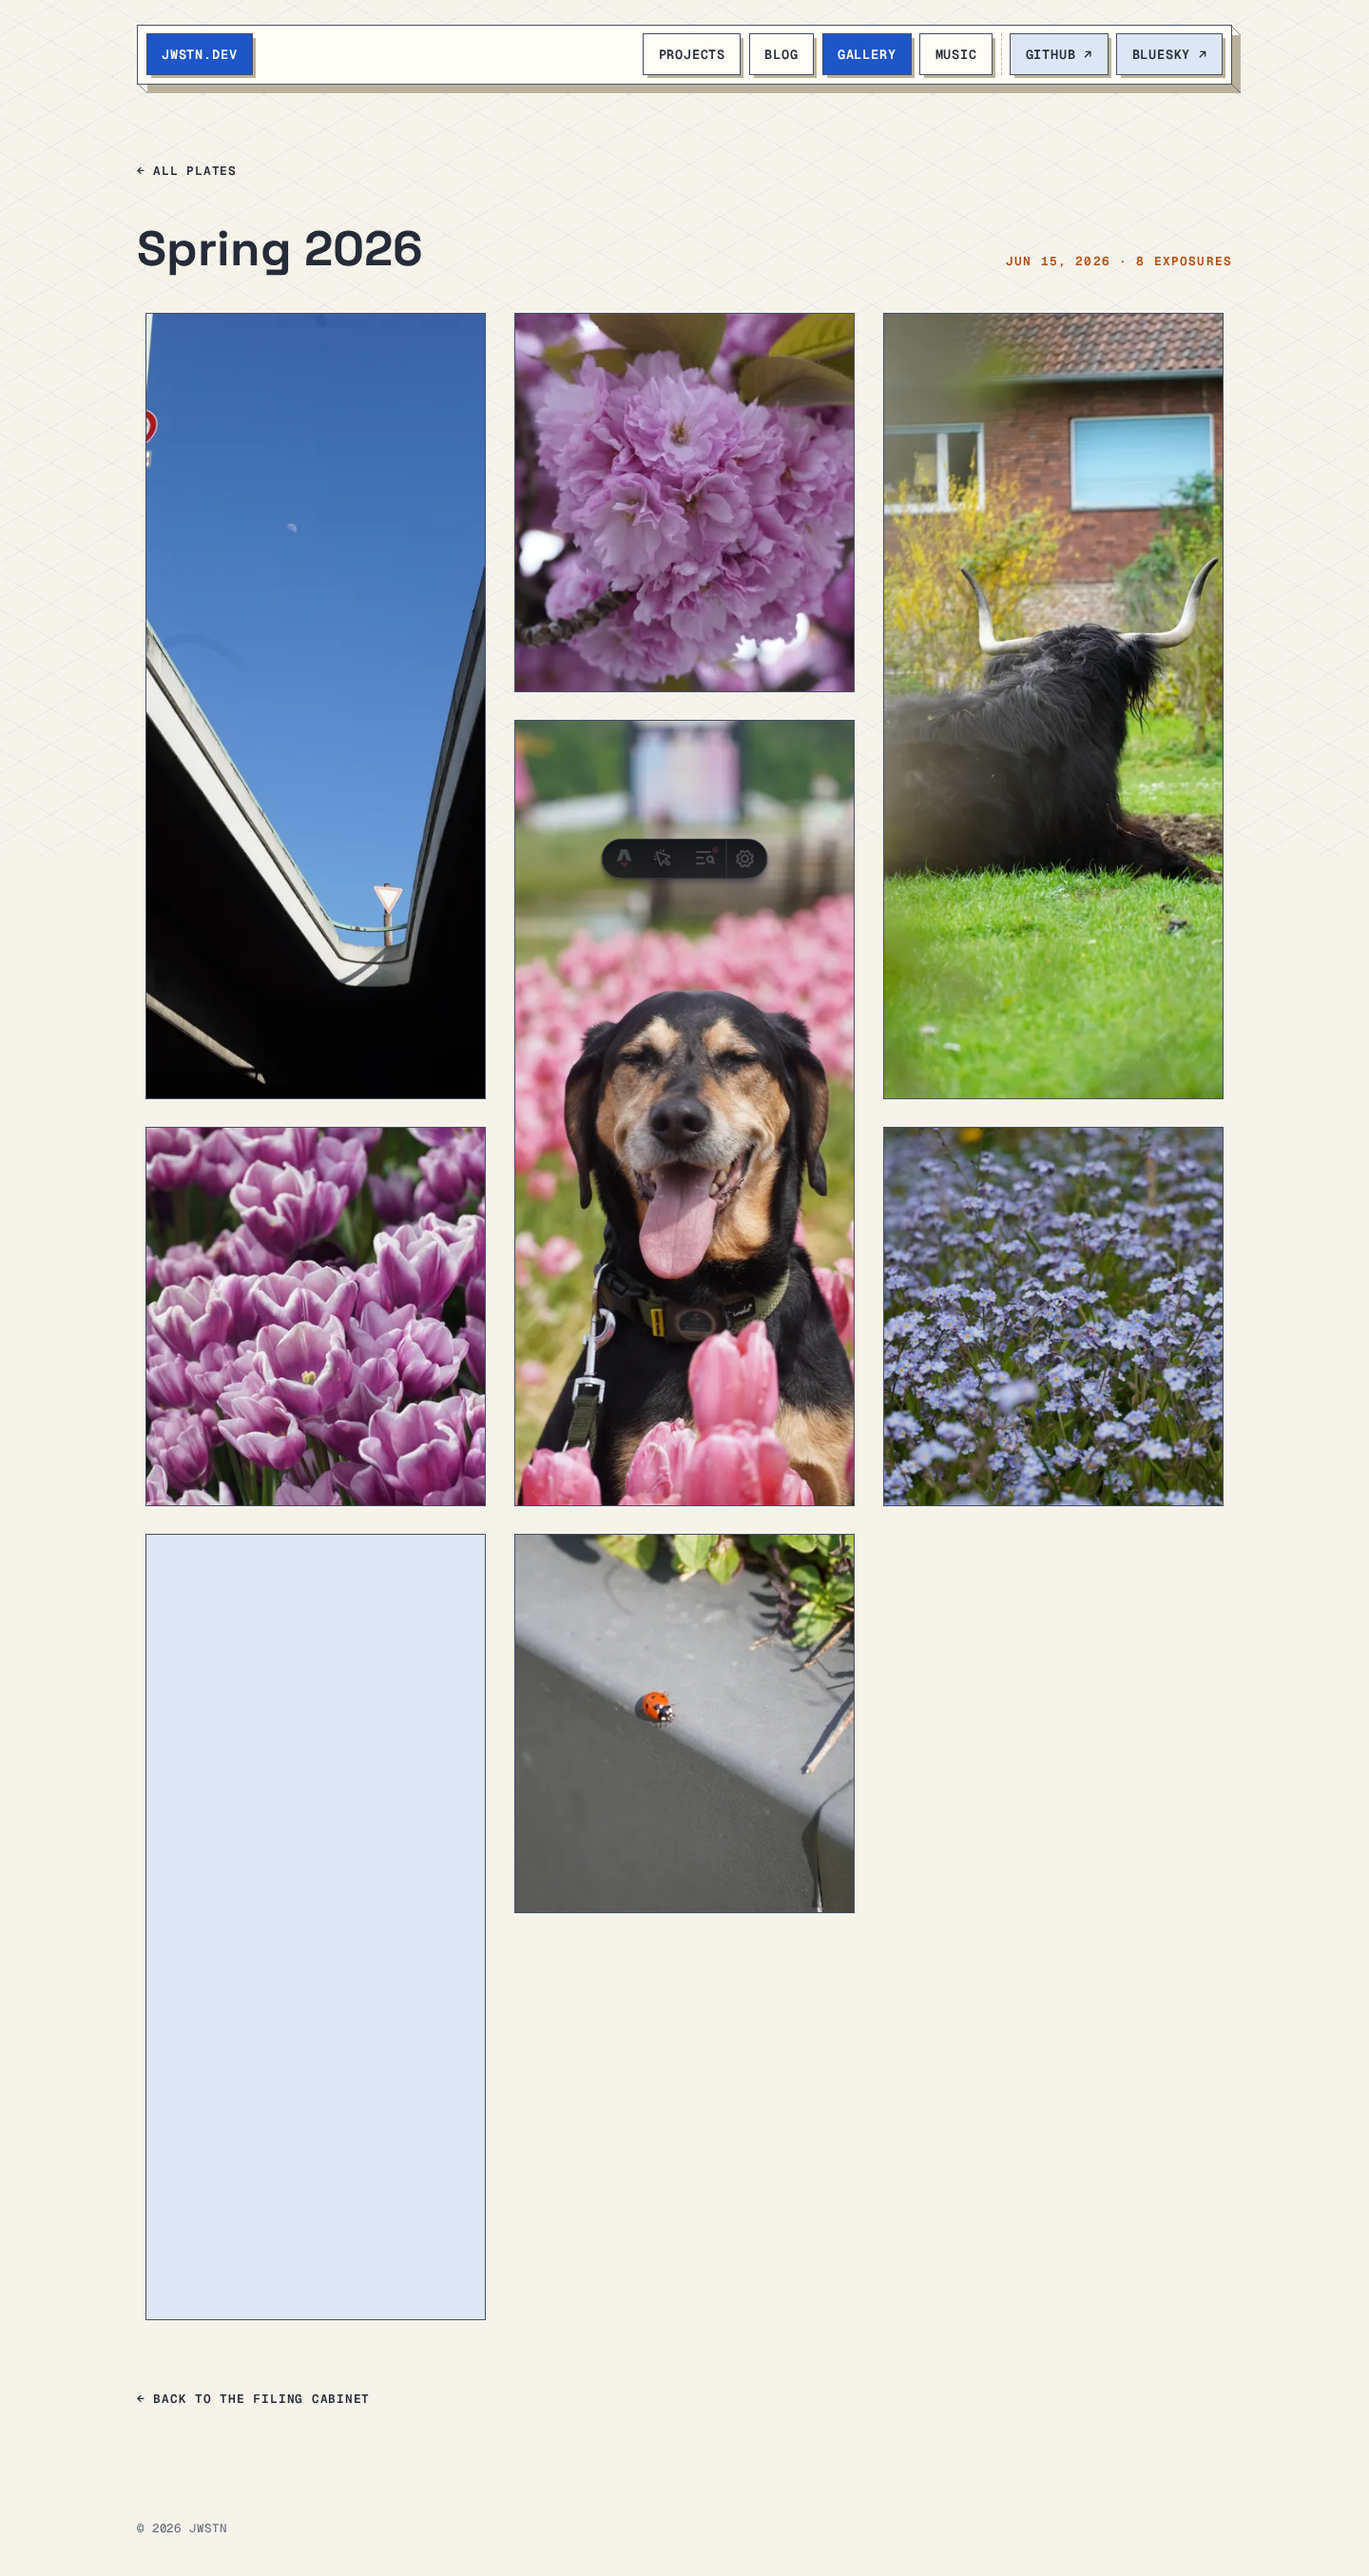
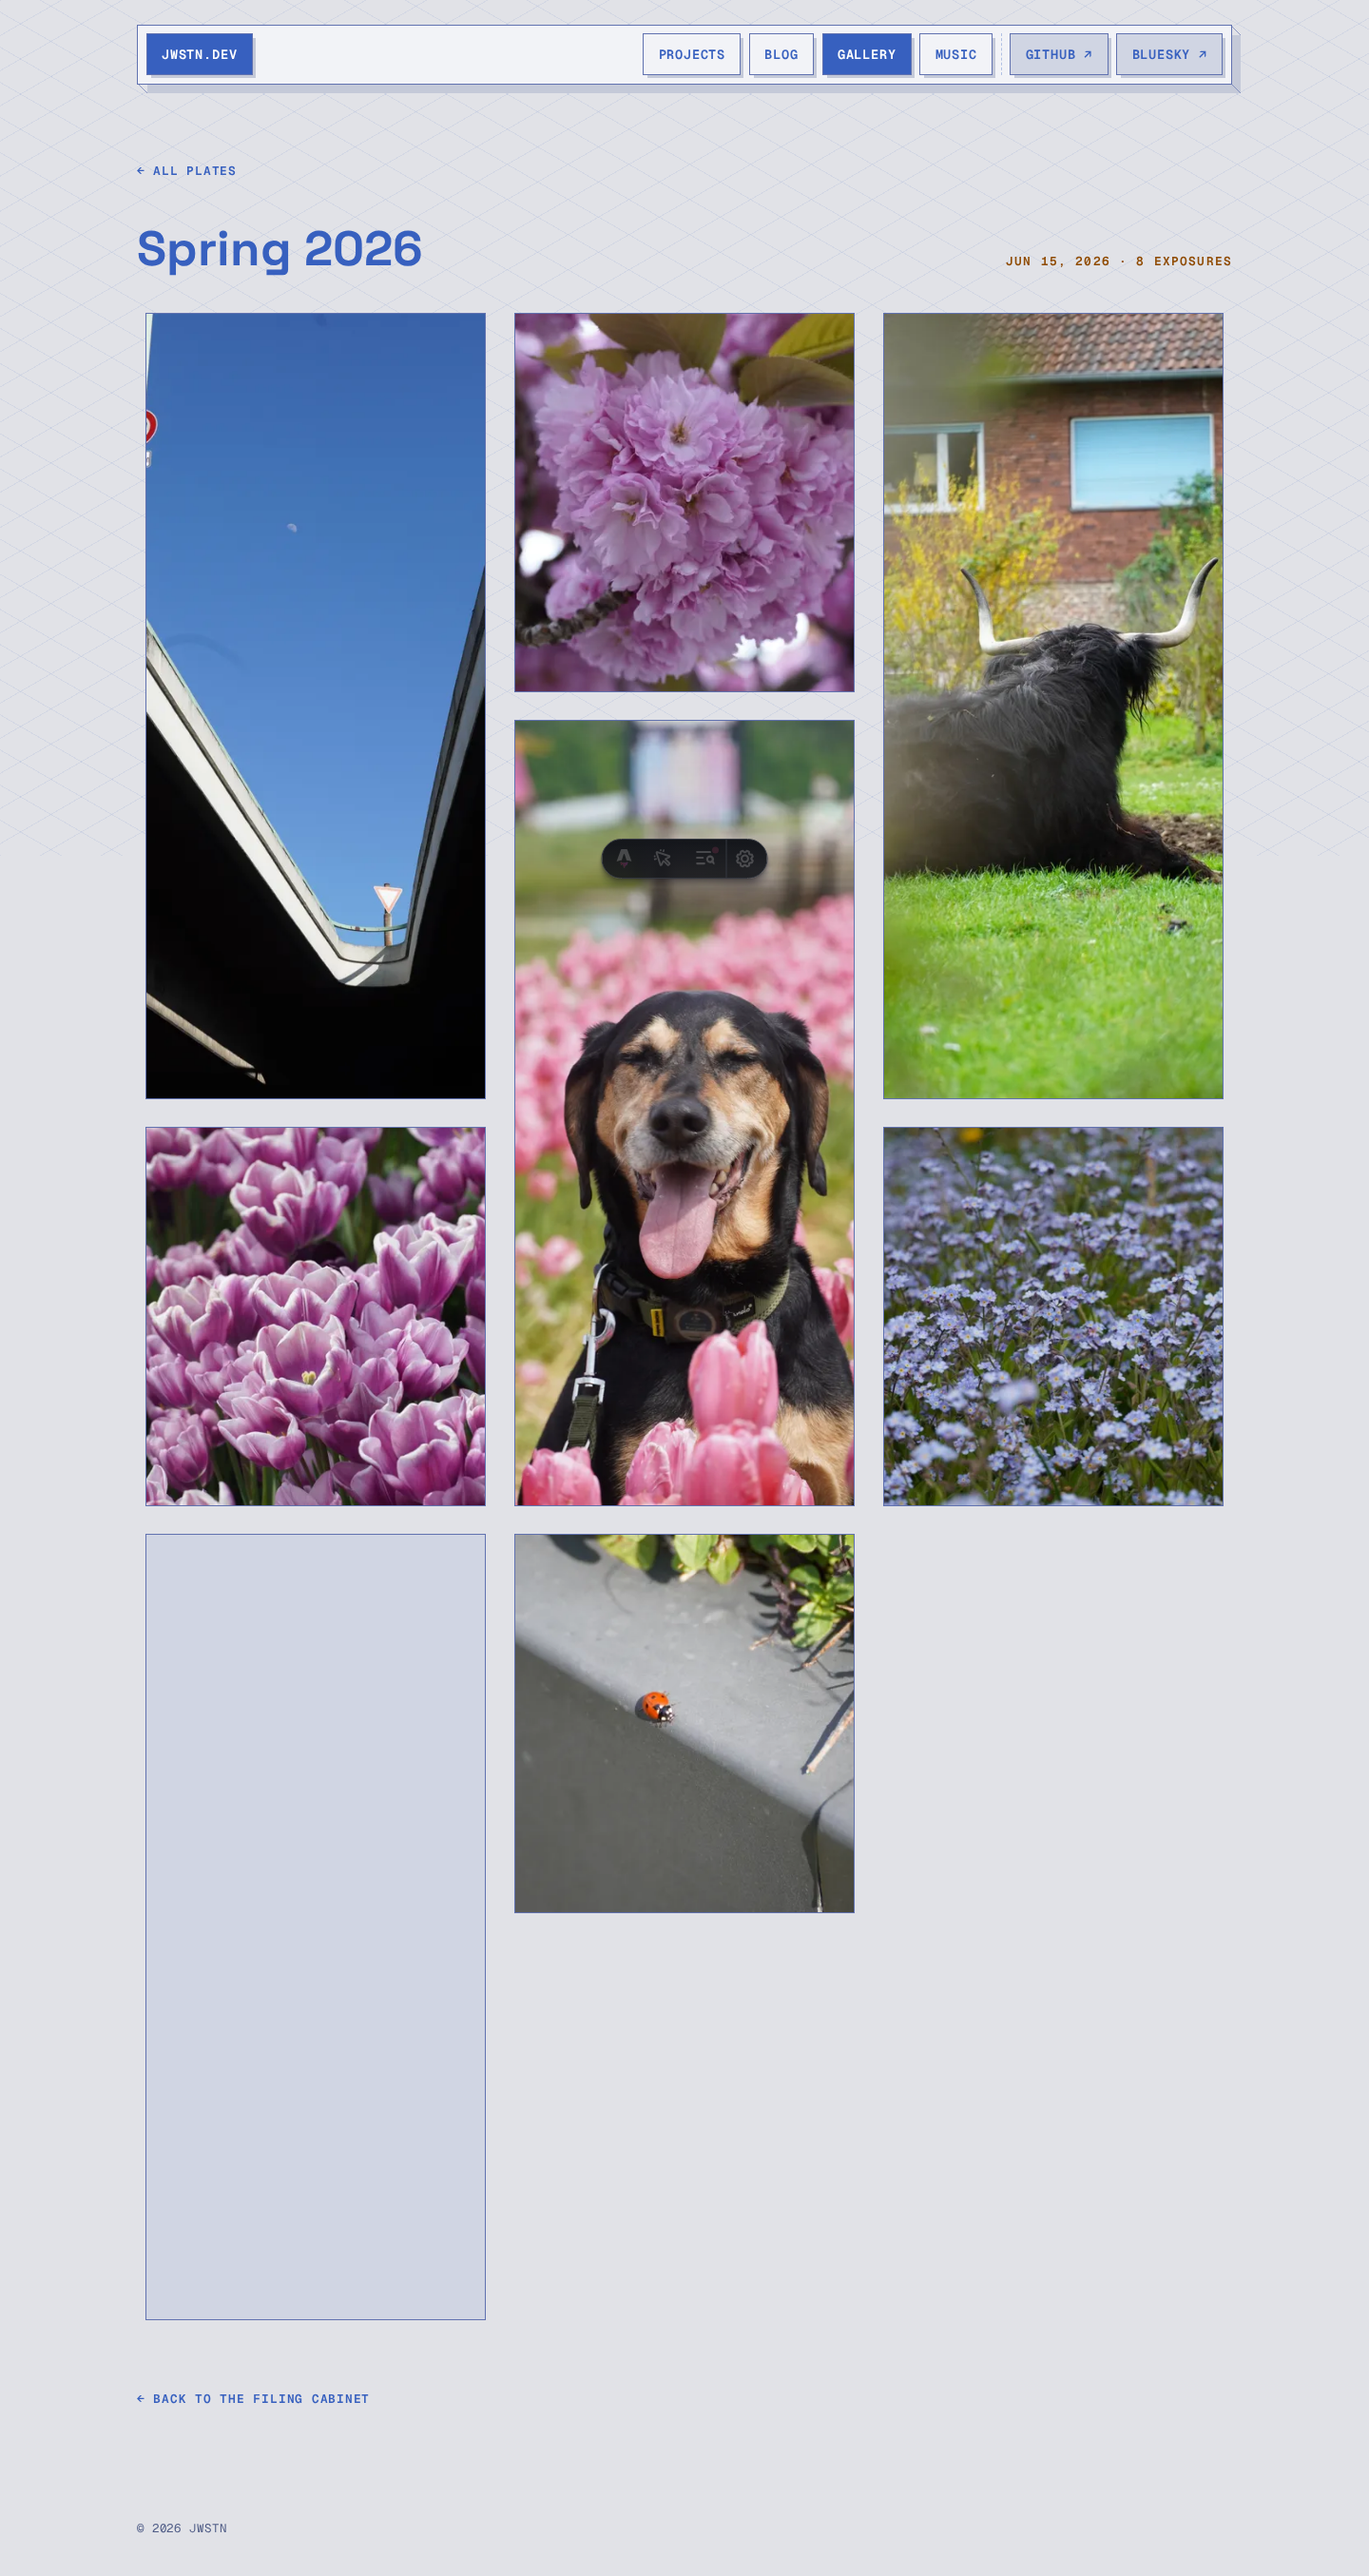
Theme: Tokyo Night palette (Night for dark, Day for light) (#42)

Changed region(s): [[0.0938, 0.0, 0.9062, 0.062], [0.0938, 0.093, 0.3125, 0.124]]

diff --git a/src/styles/theme.css b/src/styles/theme.css
@@ -1,91 +1,74 @@
 /*
- * isometric — 2.5D drafting table.
- * Everything is scoped under html.theme-isometric (plus .dark) so nothing
- * leaks into the other themes shipped in the same bundle.
- * Fonts: Space Grotesk (display + body), Geist Mono (measurements, labels,
- * axis annotations). Body copy stays flat and readable — skew only ever
- * lands on decorative faces, never on text.
+ * jwstn.dev — isometric layout, Tokyo Night palette.
+ * Dark mode: Tokyo Night · Light mode: Tokyo Night Day (AA-adjusted inks).
+ * Fonts: Space Grotesk (display + body), Geist Mono (measurements, labels).
  */
 
 @import "@fontsource-variable/space-grotesk";
 @import "@fontsource-variable/geist-mono";
 
 /* ------------------------------------------------------------------ */
-/* Design tokens — light: drafting-paper workshop                      */
+/* Design tokens — Tokyo Night Day                                     */
 /* ------------------------------------------------------------------ */
 
 html.theme-isometric {
   color-scheme: light;
 
-  --background: #f6f3ea;
-  --foreground: #252b38;
-  --card: #fffdf6;
-  --card-foreground: #252b38;
-  --primary: #1e56c8;
+  --background: #e1e2e7;
+  --foreground: #3760bf;
+  --card: #f2f3f7;
+  --card-foreground: #3760bf;
+  --primary: #3760bf;
   --primary-foreground: #ffffff;
-  --secondary: #dde6f7;
-  --secondary-foreground: #252b38;
-  --muted: #eae5d7;
-  --muted-foreground: #5c6272;
-  --accent: #b04a0e;
+  --secondary: #d0d5e3;
+  --secondary-foreground: #3760bf;
+  --muted: #d8dbe5;
+  --muted-foreground: #4f5c86;
+  --accent: #8f4a00;
   --accent-foreground: #ffffff;
-  --border: #454e63;
-  --ring: #1e56c8;
+  --border: #9aa3c0;
+  --ring: #3760bf;
   --radius: 0rem;
 
   --font-display: "Space Grotesk Variable", "Space Grotesk", system-ui, sans-serif;
   --font-body: "Space Grotesk Variable", "Space Grotesk", system-ui, sans-serif;
   --font-mono: "Geist Mono Variable", "Geist Mono", ui-monospace, monospace;
 
-  /* drafting-table customs */
-  --iso-edge: #454e63;
-  --iso-side: #b9b19b;
-  --iso-face-top: #e0e9f9;
-  --grid-line: rgb(31 86 200 / 0.07);
-
-  /* floating cube faces (decorative) */
-  --cube-a-front: #2f6ae0;
-  --cube-a-right: #1b47a8;
-  --cube-a-top: #9dbcf2;
-  --cube-b-front: #c25510;
-  --cube-b-right: #8a3a0a;
-  --cube-b-top: #e7985b;
+  --iso-edge: #6172b0;
+  --iso-side: #c4c9d8;
+  --grid-line: rgb(55 96 191 / 0.08);
 }
 
 /* ------------------------------------------------------------------ */
-/* Dark: night drafting desk — deep blue-black, glowing grid            */
+/* Dark — Tokyo Night                                                  */
 /* ------------------------------------------------------------------ */
 
 html.theme-isometric.dark {
   color-scheme: dark;
 
-  --background: #0c111d;
-  --foreground: #e8ebf4;
-  --card: #131a2a;
-  --card-foreground: #e8ebf4;
-  --primary: #6da4ff;
-  --primary-foreground: #0c111d;
-  --secondary: #1b2438;
-  --secondary-foreground: #e8ebf4;
-  --muted: #182136;
-  --muted-foreground: #a3adc2;
-  --accent: #ff9d4d;
-  --accent-foreground: #1c1206;
-  --border: #3f4a66;
-  --ring: #8ab4ff;
+  --background: #1a1b26;
+  --foreground: #c0caf5;
+  --card: #1f2335;
+  --card-foreground: #c0caf5;
+  --primary: #7aa2f7;
+  --primary-foreground: #1a1b26;
+  --secondary: #292e42;
+  --secondary-foreground: #c0caf5;
+  --muted: #24283b;
+  --muted-foreground: #a9b1d6;
+  --accent: #ff9e64;
+  --accent-foreground: #1a1b26;
+  --border: #3b4261;
+  --ring: #7aa2f7;
   --radius: 0rem;
 
-  --iso-edge: #465273;
-  --iso-side: #222b42;
-  --iso-face-top: #1d2a47;
-  --grid-line: rgb(109 164 255 / 0.09);
+  --font-display: "Space Grotesk Variable", "Space Grotesk", system-ui, sans-serif;
+  --font-body: "Space Grotesk Variable", "Space Grotesk", system-ui, sans-serif;
+  --font-mono: "Geist Mono Variable", "Geist Mono", ui-monospace, monospace;
 
-  --cube-a-front: #3d70d8;
-  --cube-a-right: #27489c;
-  --cube-a-top: #8fb4f5;
-  --cube-b-front: #d97a2c;
-  --cube-b-right: #a0521a;
-  --cube-b-top: #f2b285;
+  --iso-edge: #3b4261;
+  --iso-side: #292e42;
+  --grid-line: rgb(122 162 247 / 0.10);
 }
 
 /* ------------------------------------------------------------------ */
